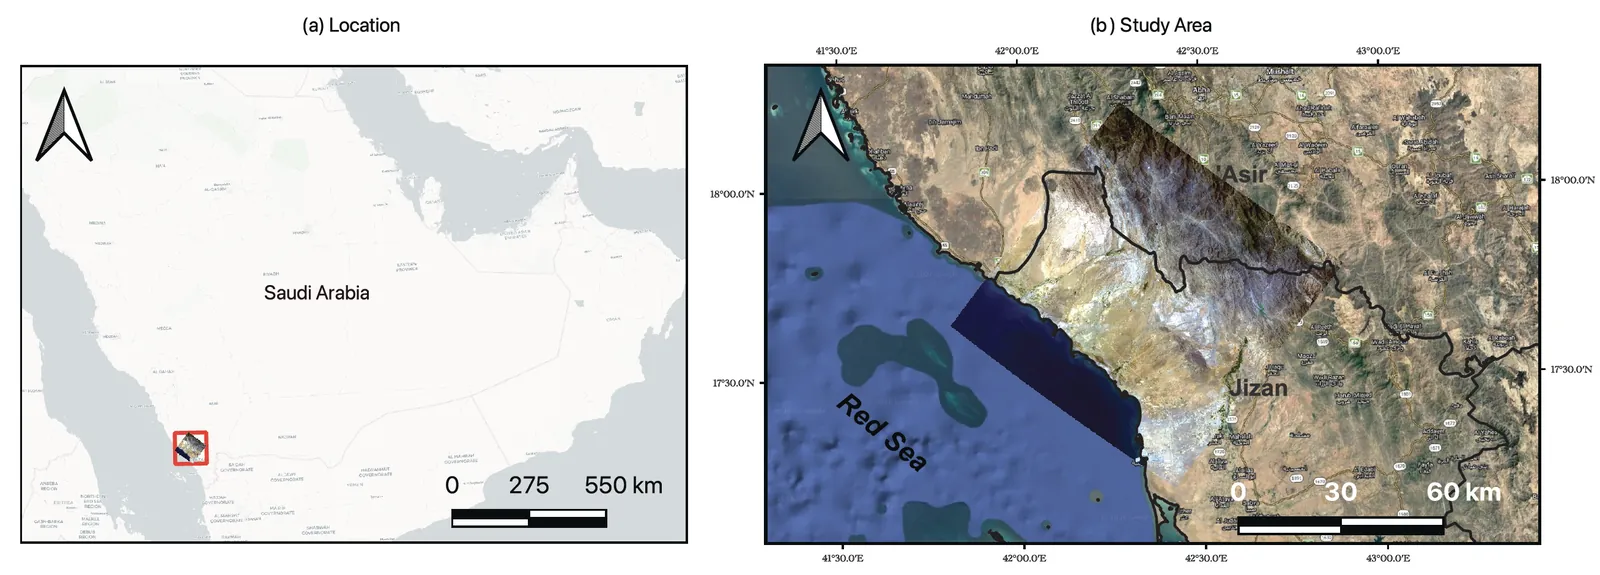
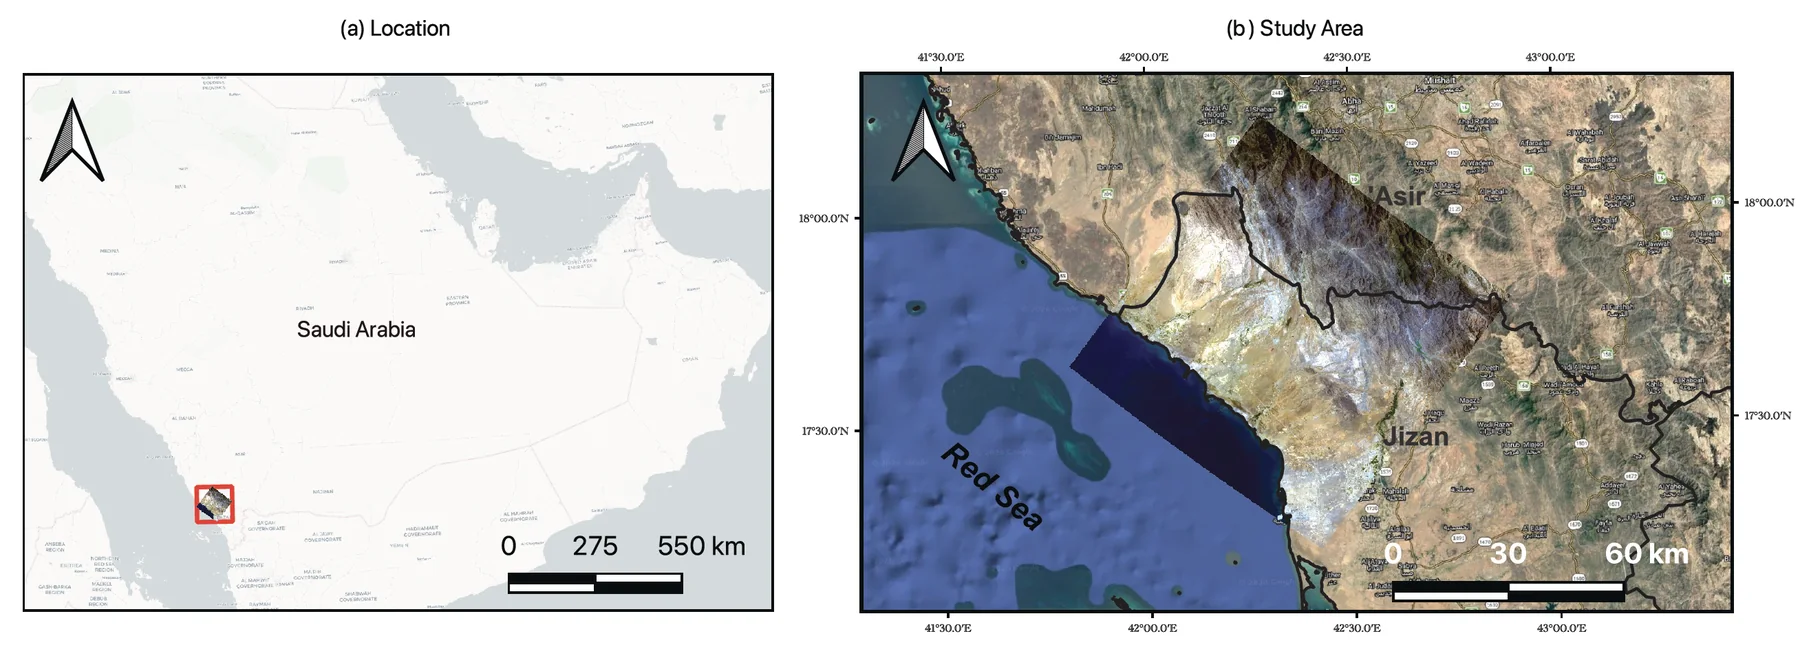
Add Hajj dashboards, JCPDI manganese map, and new EMIT study-area figure
- Hajj case: Mina and Arafat dashboard toggle, click to enlarge
- JCPDI case: manganese in marine sediments map from the environmental atlas
- EMIT case: polished study-area figure
- Pilgrim count aligned with the 1447 dashboards (about 1.7 million)

Claude-Session: https://claude.ai/code/session_01Qmx6nkB6xtGfg9bnvPaFp2

diff --git a/ar/index.html b/ar/index.html
@@ -235,6 +235,10 @@ section.sec>.wrap{padding-block:clamp(3.2rem,7vw,5.5rem)}
 .latest span{display:block;font-size:.88rem;color:var(--ink-2);margin-top:.3rem}
 #latest>.wrap{padding-block:clamp(2.2rem,5vw,3.5rem)}
 #work{border-top:1px solid var(--rule)}
+.dash-tabs{display:flex;gap:.4rem;margin-bottom:.7rem}
+.frame.dash{background:#0f2a2a}
+a.frame.zoom{display:block;cursor:zoom-in}
+.frame.dash img{transition:opacity .35s}
 .morelink{margin:-1rem 0 1.8rem;font-size:.92rem;font-weight:600}
 .nav nav a.lang{font-family:"IBM Plex Sans Arabic",var(--f-disp);font-weight:600;color:var(--blue)}
 #cv{border-top:1px solid var(--rule)}
@@ -421,7 +425,7 @@ h1,h2,h3{line-height:1.3;letter-spacing:0!important}
 
       <article class="case flip">
         <div class="media rv">
-          <div class="frame"><img src="../img/emit_study.webp" alt="منطقة الدراسة: موقع مشهد EMIT على الساحل السعودي للبحر الأحمر وصورة بالألوان الطبيعية" width="1600" height="575" loading="lazy"></div>
+          <div class="frame"><img src="../img/emit_study.webp" alt="منطقة الدراسة: موقع مشهد EMIT على الساحل السعودي للبحر الأحمر وامتداده فوق جازان وعسير" width="1800" height="647" loading="lazy"></div>
           <div class="pair" style="margin-top:.7rem">
             <div class="frame"><img src="../img/emit_targets.webp" alt="أطياف الانعكاس لستة أهداف من USGS بعد إعادة تشكيلها إلى 255 نطاقاً من EMIT" width="1170" height="650" loading="lazy"></div>
             <div class="frame"><img src="../img/emit_pd_aod.webp" alt="احتمال الكشف مقابل العمق البصري للهباء لخمسة كواشف" width="1400" height="583" loading="lazy"></div>
@@ -463,7 +467,9 @@ h1,h2,h3{line-height:1.3;letter-spacing:0!important}
 
       <article class="case flip">
         <div class="media rv">
-          <div class="bars sea">
+          <a class="frame zoom" href="../img/jcpdi_mn.webp" target="_blank" rel="noopener" aria-label="افتح خريطة المنغنيز بالحجم الكامل"><img src="../img/jcpdi_mn.webp" alt="خريطة تركيز المنغنيز في الرواسب البحرية بالمدينة الصناعية في جازان، مستوفاة بطريقة وزن المسافة العكسية من ثماني محطات مسح، وأعلاها في المحطة المرجعية الشمالية" width="1800" height="1225" loading="lazy"></a>
+          <p class="figcap">المنغنيز في الرواسب البحرية، مستوفى من محطات المسح بطريقة IDW. خريطة من الأطلس البيئي البحري للمدينة الصناعية في جازان.</p>
+          <div class="bars sea" style="margin-top:1rem">
             <div class="bignum"><b class="num" data-to="300" data-suf="+">300+</b><span>محطة اعتيان قبالة ساحل المدينة الصناعية في جازان</span></div>
             <ul class="mapped">
               <li><b>الموائل القاعية</b><span>تصنيف الشعاب المرجانية والحشائش البحرية والطحالب من محطات المسح تحت الماء</span></li>
@@ -471,7 +477,6 @@ h1,h2,h3{line-height:1.3;letter-spacing:0!important}
               <li><b>جودة الرواسب</b><span>خطوط كنتورية لحجم الحبيبات والكربون العضوي والهيدروكربونات ومؤشر المعادن</span></li>
               <li><b>الكربون الأزرق</b><span>قياس مخزون الكربون في أشجار المانغروف لورقة علمية</span></li>
             </ul>
-            <p class="figcap" style="margin:0">خرائط العميل غير معروضة هنا.</p>
           </div>
         </div>
         <div class="txt rv">
@@ -486,7 +491,10 @@ h1,h2,h3{line-height:1.3;letter-spacing:0!important}
 
       <article class="case">
         <div class="media rv">
-          <div class="bars" id="bars">
+          <div class="dash-tabs" role="group" aria-label="اختر لوحة المعلومات"><button class="chip" type="button" data-dash="mina" aria-pressed="true">منى</button><button class="chip" type="button" data-dash="arafat" aria-pressed="false">عرفات</button></div>
+          <a class="frame dash zoom" id="dashlink" href="../img/hajj_mina.webp" target="_blank" rel="noopener" aria-label="افتح لوحة المعلومات بالحجم الكامل"><img id="dashimg" src="../img/hajj_mina.webp" data-src-mina="../img/hajj_mina.webp" data-src-arafat="../img/hajj_arafat.webp" data-alt-mina="لوحة مشعر منى التفاعلية لموسم حج 1447 هـ: توزيع المخيمات حسب الشركات على صور الأقمار الصناعية مع أعداد الحجاج ومؤشرات الجاهزية" data-alt-arafat="لوحة مشعر عرفات التفاعلية لموسم حج 1447 هـ: توزيع المخيمات حسب الشركات على صور الأقمار الصناعية مع أعداد الحجاج ومؤشرات الجاهزية" alt="لوحة مشعر منى التفاعلية لموسم حج 1447 هـ: توزيع المخيمات حسب الشركات على صور الأقمار الصناعية مع أعداد الحجاج ومؤشرات الجاهزية" width="1600" height="875" loading="lazy"></a>
+          <p class="figcap">لوحات معلومات تفاعلية للمشاعر المقدسة في موسم 1447 هـ: 1.7 مليون حاج، وتوزيع المخيمات حسب شركات الخدمة، ومؤشرات الجاهزية في لمحة.</p>
+          <div class="bars" id="bars" style="margin-top:1rem">
             <div class="bignum"><b class="num" data-to="166">166</b><span>طبقة بيانات مستضافة تم نسخها احتياطياً على مستوى المنظمة كاملة</span></div>
             <div class="bar-row"><span>قبل التدقيق</span><div class="bar"><i style="width:17%;--c:#C9573E"></i></div><b>17%</b></div>
             <div class="bar-row"><span>بعد برمجياتي</span><div class="bar"><i style="width:100%;--c:var(--ok)"></i></div><b>100%</b></div>
@@ -496,7 +504,7 @@ h1,h2,h3{line-height:1.3;letter-spacing:0!important}
         <div class="txt rv">
           <span class="kicker">نظم المعلومات الجغرافية المؤسسية · 2025 حتى الآن</span>
           <h3>المنصة الجغرافية خلف عمليات الحج</h3>
-          <p class="read">في وزارة الحج والعمرة، عبر يوروكونسلت، أدير البيانات الجغرافية للبنية التحتية في مكة المكرمة ومنى وعرفات: نقاط الخدمة ومسارات الحشود ومناطق الطوارئ وطبقات الجاهزية لأكثر من مليوني حاج. دققتُ منظمة ArcGIS Online فوجدتُ أن 83% من الطبقات لا تلتزم بمعيار البيانات الوصفية، فكتبتُ برمجيات بلغة Python تنسخ كل طبقة احتياطياً وتصحح البيانات الوصفية آلياً.</p>
+          <p class="read">في وزارة الحج والعمرة، عبر يوروكونسلت، أدير البيانات الجغرافية للبنية التحتية في مكة المكرمة ومنى وعرفات: نقاط الخدمة ومسارات الحشود ومناطق الطوارئ وطبقات الجاهزية لنحو 1.7 مليون حاج في موسم 1447 هـ. دققتُ منظمة ArcGIS Online فوجدتُ أن 83% من الطبقات لا تلتزم بمعيار البيانات الوصفية، فكتبتُ برمجيات بلغة Python تنسخ كل طبقة احتياطياً وتصحح البيانات الوصفية آلياً.</p>
           <p class="read">وبنيتُ قاعدة بيانات جغرافية بـ PostGIS و ArcSDE لأصول البنية التحتية، ونشرتُ Field Maps و Survey123 ولوحات المعلومات للفرق الميدانية، وقدمتُ للقيادات مقارنة موسمي 1446 و1447 هـ باللغة العربية.</p>
           <div class="chips"><span>ArcGIS Online</span><span>ArcGIS API for Python</span><span>PostGIS · ArcSDE</span><span>Field Maps · Survey123</span><span>معايير الهيئة العامة للمساحة</span></div>
         </div>
@@ -711,6 +719,13 @@ function renderL(){lEl.innerHTML=P.filter(p=>active==="all"||p.g===active).map(p
 <div class="body"><p>${esc(p.d)}</p><p class="res">${esc(p.r)}</p>${(p.live||p.code)?`<div class="links">${p.live?`<a href="${p.live}" target="_blank" rel="noopener">افتح الخريطة الحية ↗</a>`:""}${p.code?`<a href="${p.code}" target="_blank" rel="noopener">الكود على GitHub ↗</a>`:""}</div>`:""}</div></details>`).join("")}
 fEl.addEventListener("click",e=>{const b=e.target.closest("button[data-g]");if(!b)return;active=b.dataset.g;try{localStorage.setItem("pf-filter2-ar",active)}catch(err){}renderF();renderL()});
 renderF();renderL();
+
+/* dashboard tabs */
+(function(){const img=document.getElementById("dashimg");if(!img)return;
+  document.querySelectorAll("[data-dash]").forEach(b=>b.addEventListener("click",()=>{
+    const k=b.dataset.dash;document.querySelectorAll("[data-dash]").forEach(x=>x.setAttribute("aria-pressed",x===b));
+    const go=()=>{img.src=img.getAttribute("data-src-"+k);const a=document.getElementById("dashlink");if(a)a.href=img.getAttribute("data-src-"+k);img.alt=img.getAttribute("data-alt-"+k);img.style.opacity=1};
+    if(reduce){go();return}img.style.opacity=0;setTimeout(go,200)}))})();
 
 /* copy email */
 document.getElementById("copy").addEventListener("click",ev=>{const b=ev.currentTarget,el=document.getElementById("email");

diff --git a/index.html b/index.html
@@ -235,6 +235,10 @@ section.sec>.wrap{padding-block:clamp(3.2rem,7vw,5.5rem)}
 .latest span{display:block;font-size:.88rem;color:var(--ink-2);margin-top:.3rem}
 #latest>.wrap{padding-block:clamp(2.2rem,5vw,3.5rem)}
 #work{border-top:1px solid var(--rule)}
+.dash-tabs{display:flex;gap:.4rem;margin-bottom:.7rem}
+.frame.dash{background:#0f2a2a}
+a.frame.zoom{display:block;cursor:zoom-in}
+.frame.dash img{transition:opacity .35s}
 .morelink{margin:-1rem 0 1.8rem;font-size:.92rem;font-weight:600}
 .nav nav a.lang{font-family:"IBM Plex Sans Arabic",var(--f-disp);font-weight:600;color:var(--blue)}
 #cv{border-top:1px solid var(--rule)}
@@ -398,7 +402,7 @@ footer .wrap{display:flex;justify-content:space-between;gap:1rem;flex-wrap:wrap;
 
       <article class="case flip">
         <div class="media rv">
-          <div class="frame"><img src="img/emit_study.webp" alt="Study area figure: location of the EMIT scene on the Saudi Red Sea coast and a true-color view of the study area" width="1600" height="575" loading="lazy"></div>
+          <div class="frame"><img src="img/emit_study.webp" alt="Study area figure: location of the EMIT scene on the Saudi Red Sea coast and the scene footprint over Jizan and Asir" width="1800" height="647" loading="lazy"></div>
           <div class="pair" style="margin-top:.7rem">
             <div class="frame"><img src="img/emit_targets.webp" alt="Reflectance spectra of six USGS targets resampled to 255 EMIT bands" width="1170" height="650" loading="lazy"></div>
             <div class="frame"><img src="img/emit_pd_aod.webp" alt="Probability of detection versus aerosol optical depth for five detectors" width="1400" height="583" loading="lazy"></div>
@@ -440,7 +444,9 @@ footer .wrap{display:flex;justify-content:space-between;gap:1rem;flex-wrap:wrap;
 
       <article class="case flip">
         <div class="media rv">
-          <div class="bars sea">
+          <a class="frame zoom" href="img/jcpdi_mn.webp" target="_blank" rel="noopener" aria-label="Open the full-size manganese map"><img src="img/jcpdi_mn.webp" alt="Map of manganese concentration in marine sediments at JCPDI, interpolated by inverse distance weighting from eight survey stations, highest at the northern reference station" width="1800" height="1225" loading="lazy"></a>
+          <p class="figcap">Manganese in marine sediments, interpolated from survey stations (IDW). One map from the JCPDI marine environmental atlas.</p>
+          <div class="bars sea" style="margin-top:1rem">
             <div class="bignum"><b class="num" data-to="300" data-suf="+">300+</b><span>sampling stations off the JCPDI coast, Jazan</span></div>
             <ul class="mapped">
               <li><b>Benthic habitats</b><span>Coral, seagrass, and seaweed classified from underwater survey stations</span></li>
@@ -448,7 +454,6 @@ footer .wrap{display:flex;justify-content:space-between;gap:1rem;flex-wrap:wrap;
               <li><b>Sediment quality</b><span>Grain size, organic carbon, hydrocarbons, and a metals index contoured</span></li>
               <li><b>Blue carbon</b><span>Mangrove carbon stocks measured for a manuscript</span></li>
             </ul>
-            <p class="figcap" style="margin:0">Client maps are not shown here.</p>
           </div>
         </div>
         <div class="txt rv">
@@ -463,7 +468,10 @@ footer .wrap{display:flex;justify-content:space-between;gap:1rem;flex-wrap:wrap;
 
       <article class="case">
         <div class="media rv">
-          <div class="bars" id="bars">
+          <div class="dash-tabs" role="group" aria-label="Choose a dashboard"><button class="chip" type="button" data-dash="mina" aria-pressed="true">Mina</button><button class="chip" type="button" data-dash="arafat" aria-pressed="false">Arafat</button></div>
+          <a class="frame dash zoom" id="dashlink" href="img/hajj_mina.webp" target="_blank" rel="noopener" aria-label="Open the full-size dashboard"><img id="dashimg" src="img/hajj_mina.webp" data-src-mina="img/hajj_mina.webp" data-src-arafat="img/hajj_arafat.webp" data-alt-mina="Mina interactive dashboard for the 1447 AH Hajj season: camp allocations by company on satellite imagery, with pilgrim counts and readiness indicators" data-alt-arafat="Arafat interactive dashboard for the 1447 AH Hajj season: camp allocations by company on satellite imagery, with pilgrim counts and readiness indicators" alt="Mina interactive dashboard for the 1447 AH Hajj season: camp allocations by company on satellite imagery, with pilgrim counts and readiness indicators" width="1600" height="875" loading="lazy"></a>
+          <p class="figcap">Interactive dashboards for the holy sites, 1447 AH season: 1.7 million pilgrims, camp allocation by service company, and readiness at a glance.</p>
+          <div class="bars" id="bars" style="margin-top:1rem">
             <div class="bignum"><b class="num" data-to="166">166</b><span>hosted feature layers backed up across the whole organization</span></div>
             <div class="bar-row"><span>Before audit</span><div class="bar"><i style="width:17%;--c:#C9573E"></i></div><b>17%</b></div>
             <div class="bar-row"><span>After my scripts</span><div class="bar"><i style="width:100%;--c:var(--ok)"></i></div><b>100%</b></div>
@@ -473,7 +481,7 @@ footer .wrap{display:flex;justify-content:space-between;gap:1rem;flex-wrap:wrap;
         <div class="txt rv">
           <span class="kicker">Enterprise GIS · 2025 to now</span>
           <h3>The GIS platform behind Hajj operations</h3>
-          <p class="read">At the Ministry of Hajj and Umrah, through Euroconsult, I manage GIS data for infrastructure across Makkah, Mina, and Arafat: service points, crowd routing, emergency zones, and readiness layers for more than 2 million pilgrims. I audited the ArcGIS Online organization and found 83% of the layers failed the metadata standard, then wrote Python scripts that back up every layer and fixed the metadata automatically.</p>
+          <p class="read">At the Ministry of Hajj and Umrah, through Euroconsult, I manage GIS data for infrastructure across Makkah, Mina, and Arafat: service points, crowd routing, emergency zones, and readiness layers for about 1.7 million pilgrims in the 1447 season. I audited the ArcGIS Online organization and found 83% of the layers failed the metadata standard, then wrote Python scripts that back up every layer and fixed the metadata automatically.</p>
           <p class="read">I also built the PostGIS and ArcSDE geodatabase for infrastructure assets, deployed Field Maps, Survey123, and Dashboards for field teams, and delivered the 1446 versus 1447 season comparison to senior leadership in Arabic.</p>
           <div class="chips"><span>ArcGIS Online</span><span>ArcGIS API for Python</span><span>PostGIS · ArcSDE</span><span>Field Maps · Survey123</span><span>GEOSA standards</span></div>
         </div>
@@ -688,6 +696,13 @@ function renderL(){lEl.innerHTML=P.filter(p=>active==="all"||p.g===active).map(p
 <div class="body"><p>${esc(p.d)}</p><p class="res">${esc(p.r)}</p>${(p.live||p.code)?`<div class="links">${p.live?`<a href="${p.live}" target="_blank" rel="noopener">Open live map ↗</a>`:""}${p.code?`<a href="${p.code}" target="_blank" rel="noopener">Code on GitHub ↗</a>`:""}</div>`:""}</div></details>`).join("")}
 fEl.addEventListener("click",e=>{const b=e.target.closest("button[data-g]");if(!b)return;active=b.dataset.g;try{localStorage.setItem("pf-filter2",active)}catch(err){}renderF();renderL()});
 renderF();renderL();
+
+/* dashboard tabs */
+(function(){const img=document.getElementById("dashimg");if(!img)return;
+  document.querySelectorAll("[data-dash]").forEach(b=>b.addEventListener("click",()=>{
+    const k=b.dataset.dash;document.querySelectorAll("[data-dash]").forEach(x=>x.setAttribute("aria-pressed",x===b));
+    const go=()=>{img.src=img.getAttribute("data-src-"+k);const a=document.getElementById("dashlink");if(a)a.href=img.getAttribute("data-src-"+k);img.alt=img.getAttribute("data-alt-"+k);img.style.opacity=1};
+    if(reduce){go();return}img.style.opacity=0;setTimeout(go,200)}))})();
 
 /* copy email */
 document.getElementById("copy").addEventListener("click",ev=>{const b=ev.currentTarget,el=document.getElementById("email");

diff --git a/ar/oil-spill/index.html b/ar/oil-spill/index.html
@@ -236,6 +236,10 @@ section.sec>.wrap{padding-block:clamp(3.2rem,7vw,5.5rem)}
 .latest span{display:block;font-size:.88rem;color:var(--ink-2);margin-top:.3rem}
 #latest>.wrap{padding-block:clamp(2.2rem,5vw,3.5rem)}
 #work{border-top:1px solid var(--rule)}
+.dash-tabs{display:flex;gap:.4rem;margin-bottom:.7rem}
+.frame.dash{background:#0f2a2a}
+a.frame.zoom{display:block;cursor:zoom-in}
+.frame.dash img{transition:opacity .35s}
 .morelink{margin:-1rem 0 1.8rem;font-size:.92rem;font-weight:600}
 .nav nav a.lang{font-family:"IBM Plex Sans Arabic",var(--f-disp);font-weight:600;color:var(--blue)}
 #cv{border-top:1px solid var(--rule)}

diff --git a/oil-spill/index.html b/oil-spill/index.html
@@ -236,6 +236,10 @@ section.sec>.wrap{padding-block:clamp(3.2rem,7vw,5.5rem)}
 .latest span{display:block;font-size:.88rem;color:var(--ink-2);margin-top:.3rem}
 #latest>.wrap{padding-block:clamp(2.2rem,5vw,3.5rem)}
 #work{border-top:1px solid var(--rule)}
+.dash-tabs{display:flex;gap:.4rem;margin-bottom:.7rem}
+.frame.dash{background:#0f2a2a}
+a.frame.zoom{display:block;cursor:zoom-in}
+.frame.dash img{transition:opacity .35s}
 .morelink{margin:-1rem 0 1.8rem;font-size:.92rem;font-weight:600}
 .nav nav a.lang{font-family:"IBM Plex Sans Arabic",var(--f-disp);font-weight:600;color:var(--blue)}
 #cv{border-top:1px solid var(--rule)}
